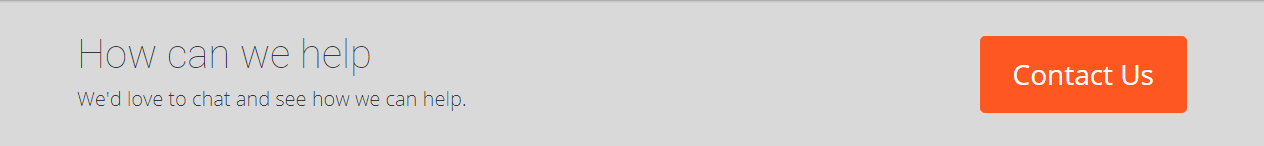
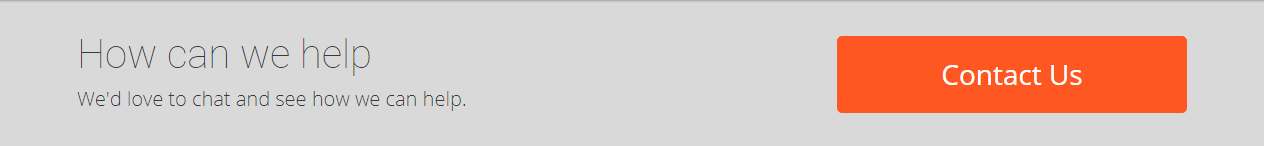
New + updated call to action blocks

Changed region(s): [[0.6479, 0.2466, 0.9256, 0.7945]]

diff --git a/blocks/landingpages/04-call_to_action/block-01-04.blade.php b/blocks/landingpages/04-call_to_action/block-01-04.blade.php
@@ -1,0 +1,21 @@
+<section class="-x-block">
+  <div class="content text-light content-padding -x-block-bg-img" style="">
+    <div class="content-overlay -x-block-bg-color" style="background-color:rgba(0,0,0,0.8)">
+      <div class="container">
+        <div class="row">
+          <div class="col-md-8 push-md-4">
+            <div class="-x-text text-center text-md-right mb-3 mb-md-0">
+              <h1>{!! trans('landingpages::block.how_can_we_help') !!}</h1>
+              <p class="lead no-margin-b">{!! trans('landingpages::block.how_can_we_help_lead') !!}</p>
+            </div>
+          </div>
+          <div class="col-md-4 pull-md-8 text-center text-md-left">
+            <div class="btn-container mt-md-1">
+              <a class="btn btn-xlg btn-outline-yellow btn-block -x-link" href="#" data-offset="0px 25px" data-target-attachment="top left" role="button">{!! trans('landingpages::block.contact_us') !!}</a>
+            </div>
+          </div>
+        </div>
+      </div>
+    </div>
+  </div>
+</section>

diff --git a/blocks/landingpages/04-call_to_action/block-01-01.blade.php b/blocks/landingpages/04-call_to_action/block-01-01.blade.php
@@ -4,14 +4,14 @@
       <div class="container">
         <div class="row">
           <div class="col-md-8">
-            <div class="-x-text text-center text-sm-left mb-3 mb-sm-0">
+            <div class="-x-text text-center text-md-left mb-3 mb-md-0">
               <h1>{!! trans('landingpages::block.how_can_we_help') !!}</h1>
               <p class="lead no-margin-b">{!! trans('landingpages::block.how_can_we_help_lead') !!}</p>
             </div>
           </div>
           <div class="col-md-4 text-center text-md-right">
             <div class="btn-container mt-sm-1">
-              <a class="btn btn-xlg btn-deep-orange -x-link" href="#" data-offset="0px 25px" data-target-attachment="top left" role="button">{!! trans('landingpages::block.contact_us') !!}</a>
+              <a class="btn btn-xlg btn-deep-orange btn-block -x-link" href="#" data-offset="0px 25px" data-target-attachment="top left" role="button">{!! trans('landingpages::block.contact_us') !!}</a>
             </div>
           </div>
         </div>

diff --git a/blocks/landingpages/04-call_to_action/block-01-02.blade.php b/blocks/landingpages/04-call_to_action/block-01-02.blade.php
@@ -4,14 +4,14 @@
       <div class="container">
         <div class="row">
           <div class="col-md-8">
-            <div class="-x-text text-center text-sm-left mb-3 mb-sm-0">
+            <div class="-x-text text-center text-md-left mb-3 mb-md-0">
               <h1>{!! trans('landingpages::block.how_can_we_help') !!}</h1>
               <p class="lead no-margin-b">{!! trans('landingpages::block.how_can_we_help_lead') !!}</p>
             </div>
           </div>
           <div class="col-md-4 text-center text-md-right">
             <div class="btn-container mt-sm-1">
-              <a class="btn btn-xlg btn-yellow -x-link" href="#" data-offset="0px 25px" data-target-attachment="top left" role="button">{!! trans('landingpages::block.contact_us') !!}</a>
+              <a class="btn btn-xlg btn-yellow btn-block -x-link" href="#" data-offset="0px 25px" data-target-attachment="top left" role="button">{!! trans('landingpages::block.contact_us') !!}</a>
             </div>
           </div>
         </div>

diff --git a/blocks/landingpages/04-call_to_action/block-01-03.blade.php b/blocks/landingpages/04-call_to_action/block-01-03.blade.php
@@ -1,0 +1,21 @@
+<section class="-x-block">
+  <div class="content content-padding -x-block-bg-img" style="">
+    <div class="content-overlay -x-block-bg-color" style="background-color:rgba(0,0,0,0.05)">
+      <div class="container">
+        <div class="row">
+          <div class="col-md-8 push-md-4">
+            <div class="-x-text text-center text-md-right mb-3 mb-md-0">
+              <h1>{!! trans('landingpages::block.how_can_we_help') !!}</h1>
+              <p class="lead no-margin-b">{!! trans('landingpages::block.how_can_we_help_lead') !!}</p>
+            </div>
+          </div>
+          <div class="col-md-4 pull-md-8 text-center text-md-left">
+            <div class="btn-container mt-md-1">
+              <a class="btn btn-xlg btn-blue btn-block -x-link" href="#" data-offset="0px 25px" data-target-attachment="top left" role="button">{!! trans('landingpages::block.contact_us') !!}</a>
+            </div>
+          </div>
+        </div>
+      </div>
+    </div>
+  </div>
+</section>

diff --git a/blocks/landingpages/04-call_to_action/block-02-02.blade.php b/blocks/landingpages/04-call_to_action/block-02-02.blade.php
@@ -1,0 +1,13 @@
+<section class="-x-block">
+  <div class="content text-light content-padding -x-block-bg-img" style="">
+    <div class="content-overlay -x-block-bg-color" style="background-color:rgba(156,39,176,1)">
+      <div class="container">
+        <div class="row">
+          <div class="col-md-12 text-center">
+            <a class="btn btn-xlg btn-outline-ghost btn-block -x-link" href="#" data-offset="0px 25px" data-target-attachment="top left" role="button">{!! trans('landingpages::block.get_started_for_free') !!}</a>
+          </div>
+        </div>
+      </div>
+    </div>
+  </div>
+</section>

diff --git a/blocks/landingpages/04-call_to_action/block-02-01.blade.php b/blocks/landingpages/04-call_to_action/block-02-01.blade.php
@@ -1,0 +1,13 @@
+<section class="-x-block">
+  <div class="content content-padding -x-block-bg-img" style="">
+    <div class="content-overlay -x-block-bg-color" style="background-color:rgba(0,0,0,0.1)">
+      <div class="container">
+        <div class="row">
+          <div class="col-md-12 text-center">
+            <a class="btn btn-xlg btn-purple btn-block -x-link" href="#" data-offset="0px 25px" data-target-attachment="top left" role="button">{!! trans('landingpages::block.get_discount') !!}</a>
+          </div>
+        </div>
+      </div>
+    </div>
+  </div>
+</section>
